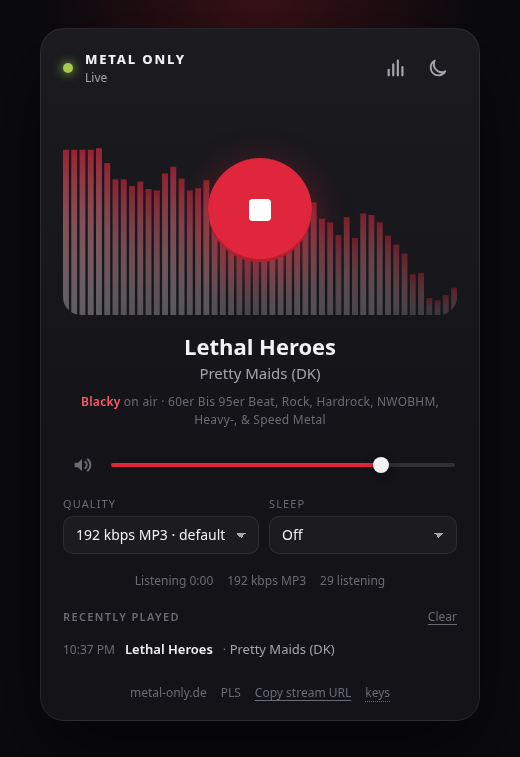
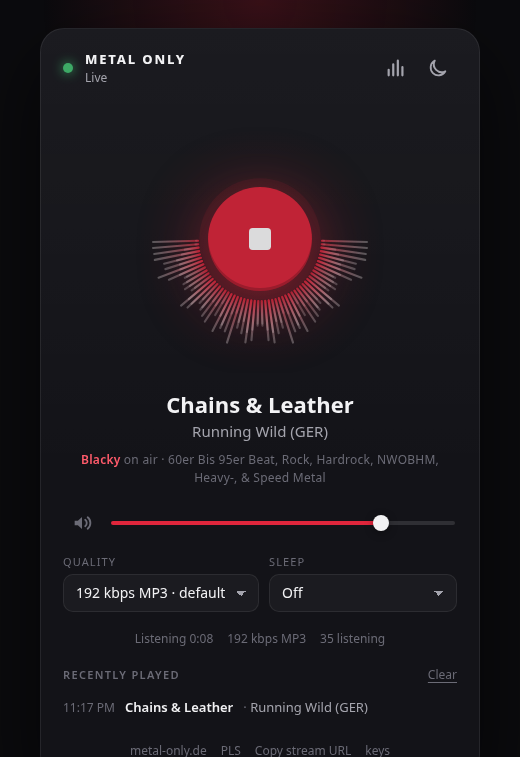
Visualizer: ring around the play button with log bands and bass glow
Bands are log-spaced and their power is summed in the dB domain, so
treble is no longer starved. Bars rise instantly and decay slowly.
Low-band energy drives a CSS variable that makes the button and page
glow breathe with the music. Range calibrated on the live stream.

diff --git a/public/app.js b/public/app.js
@@ -47,6 +47,7 @@
     else document.documentElement.setAttribute('data-theme', theme);
     el.themeToggle.title = `Theme: ${theme} (t)`;
     store.set('theme', theme);
+    document.dispatchEvent(new Event('themechange'));
   }
   function cycleTheme() {
     const cur = store.get('theme', 'dark');
@@ -75,8 +76,10 @@
       audioCtx = new Ctx();
       const src = audioCtx.createMediaElementSource(audio);
       analyser = audioCtx.createAnalyser();
-      analyser.fftSize = 256;
-      analyser.smoothingTimeConstant = 0.82;
+      analyser.fftSize = 4096;
+      analyser.smoothingTimeConstant = 0.5;
+      analyser.minDecibels = -100;
+      analyser.maxDecibels = 0;
       src.connect(analyser);
       analyser.connect(audioCtx.destination);
     } catch (err) {
@@ -370,8 +373,30 @@
   setInterval(tick, 1000);
 
   // ---------- Visualizer ----------
+  // A ring of bars around the play button, mirrored left and right.
+  // Bands are spaced logarithmically (equal width per octave) and averaged,
+  // so bass and treble get equal room. Levels rise instantly and fall slowly.
   const ctx2d = el.viz.getContext('2d');
   let vizFrame = null;
+  const BANDS = 56;             // bars per half; the ring shows twice this
+  const F_LO = 45, F_HI = 14500; // Hz; MP3 has nothing useful above 16 kHz
+  const RELEASE = 0.86;         // per-frame decay of a bar once the signal drops
+  const DB_LO = -62, DB_HI = -26; // band power range mapped to bar length 0..1 (measured on the live stream)
+  const TILT_DB = 8;             // gentle lift toward the top band so treble is not always the runt
+  let levels = new Float32Array(BANDS);
+  const bandDb = new Float32Array(BANDS);
+  // ?debug=1 exposes the band readings so they can be inspected from the console.
+  if (new URLSearchParams(location.search).has('debug')) window.__viz = { levels, bandDb };
+  let bandEdges = null;
+  let colors = { c1: '', c2: '' };
+
+  function readColors() {
+    const css = getComputedStyle(document.documentElement);
+    colors = { c1: css.getPropertyValue('--viz').trim(), c2: css.getPropertyValue('--viz-2').trim() };
+  }
+  readColors();
+  document.addEventListener('themechange', readColors);
+
   function resizeCanvas() {
     const dpr = window.devicePixelRatio || 1;
     const r = el.viz.getBoundingClientRect();
@@ -381,41 +406,92 @@
   window.addEventListener('resize', resizeCanvas);
   resizeCanvas();
 
+  function computeBandEdges() {
+    const nyquist = audioCtx.sampleRate / 2;
+    const bins = analyser.frequencyBinCount;
+    const edges = new Array(BANDS + 1);
+    for (let i = 0; i <= BANDS; i++) {
+      const hz = F_LO * (F_HI / F_LO) ** (i / BANDS);
+      edges[i] = Math.min(bins - 1, Math.round((hz / nyquist) * bins));
+    }
+    return edges;
+  }
+
+  function setBass(v) {
+    document.documentElement.style.setProperty('--bass', v.toFixed(3));
+  }
+
   function drawViz() {
     cancelAnimationFrame(vizFrame);
     if (!analyser || !vizOn) { clearViz(); return; }
-    const data = new Uint8Array(analyser.frequencyBinCount);
-    const css = () => getComputedStyle(document.documentElement);
+    if (!bandEdges) bandEdges = computeBandEdges();
+    const data = new Float32Array(analyser.frequencyBinCount);
     const frame = () => {
       if (!state.wanted || !vizOn) { clearViz(); return; }
       vizFrame = requestAnimationFrame(frame);
-      analyser.getByteFrequencyData(data);
-      const W = el.viz.width, H = el.viz.height;
-      ctx2d.clearRect(0, 0, W, H);
-      const bars = 48;
-      const gap = W * 0.006;
-      const bw = (W - gap * (bars - 1)) / bars;
-      const c1 = css().getPropertyValue('--viz').trim();
-      const c2 = css().getPropertyValue('--viz-2').trim();
-      // Use the lower two thirds of the spectrum; the top is mostly empty for music.
-      const usable = Math.floor(data.length * 0.66);
-      for (let i = 0; i < bars; i++) {
-        const idx = Math.floor((i / bars) ** 1.6 * usable);
-        const v = data[idx] / 255;
-        const h = Math.max(2, v * H * 0.9);
-        const x = i * (bw + gap);
-        const grad = ctx2d.createLinearGradient(0, H - h, 0, H);
-        grad.addColorStop(0, c1);
-        grad.addColorStop(1, c2);
-        ctx2d.fillStyle = grad;
-        ctx2d.globalAlpha = 0.35 + v * 0.6;
-        ctx2d.fillRect(x, H - h, bw, h);
+      analyser.getFloatFrequencyData(data); // dB per bin
+
+      // Sum the power of the bins in each band (wide treble bands add up, so
+      // they are not starved), turn it back into dB, then apply attack/release.
+      for (let i = 0; i < BANDS; i++) {
+        const from = bandEdges[i];
+        const to = Math.max(from + 1, bandEdges[i + 1]);
+        let power = 0;
+        for (let b = from; b < to; b++) power += 10 ** (data[b] / 10);
+        const db = 10 * Math.log10(power + 1e-12) + (i / BANDS) * TILT_DB;
+        bandDb[i] = db;
+        const v = Math.min(1, Math.max(0, (db - DB_LO) / (DB_HI - DB_LO))) ** 1.3;
+        levels[i] = v > levels[i] ? v : levels[i] * RELEASE;
       }
+
+      const W = el.viz.width, H = el.viz.height;
+      const dpr = window.devicePixelRatio || 1;
+      ctx2d.clearRect(0, 0, W, H);
+      const cx = W / 2, cy = H / 2;
+      const inner = 62 * dpr;                      // just outside the 104px button
+      const maxLen = Math.min(cx, cy) - inner - 4 * dpr;
+      const step = Math.PI / BANDS;                // angle between bars on one side
+      const bw = Math.max(1.5 * dpr, inner * step * 0.62);
+
+      ctx2d.save();
+      ctx2d.translate(cx, cy);
+      ctx2d.lineCap = 'round';
+      ctx2d.lineWidth = bw;
+      for (let i = 0; i < BANDS; i++) {
+        const v = levels[i];
+        const len = Math.max(2 * dpr, v * maxLen);
+        // Bass at the bottom (6 o'clock), treble at the top, mirrored on both sides.
+        const a = Math.PI / 2 - (i + 0.5) * step;
+        const grad = ctx2d.createLinearGradient(0, inner, 0, inner + len);
+        grad.addColorStop(0, colors.c1);
+        grad.addColorStop(1, colors.c2);
+        ctx2d.strokeStyle = grad;
+        ctx2d.globalAlpha = 0.4 + v * 0.6;
+        for (const side of [1, -1]) {
+          ctx2d.save();
+          ctx2d.rotate(side * a);
+          ctx2d.beginPath();
+          ctx2d.moveTo(0, inner);
+          ctx2d.lineTo(0, inner + len);
+          ctx2d.stroke();
+          ctx2d.restore();
+        }
+      }
+      ctx2d.restore();
       ctx2d.globalAlpha = 1;
+
+      // Bass energy drives the glow around the button and the page.
+      let bass = 0;
+      for (let i = 0; i < 6; i++) bass += levels[i];
+      setBass(bass / 6);
     };
     frame();
   }
-  function clearViz() { ctx2d.clearRect(0, 0, el.viz.width, el.viz.height); }
+  function clearViz() {
+    ctx2d.clearRect(0, 0, el.viz.width, el.viz.height);
+    levels.fill(0);
+    setBass(0);
+  }
 
   el.vizToggle.addEventListener('click', () => {
     vizOn = !vizOn;

diff --git a/public/style.css b/public/style.css
@@ -82,6 +82,7 @@ body {
 .glow {
   position: fixed; inset: 0; pointer-events: none;
   background: var(--glow);
+  opacity: calc(0.85 + var(--bass, 0) * 0.9);
   z-index: 0;
 }
 a { color: inherit; }
@@ -137,7 +138,7 @@ svg { width: 22px; height: 22px; display: block; }
 
 /* Stage: visualizer plus the big play button. */
 .stage {
-  position: relative; height: 210px;
+  position: relative; height: 268px;
   display: grid; place-items: center;
   border-radius: 18px; overflow: hidden;
 }
@@ -149,8 +150,12 @@ svg { width: 22px; height: 22px; display: block; }
   background: var(--accent);
   color: #fff;
   display: grid; place-items: center;
-  box-shadow: 0 12px 40px rgba(224, 38, 60, 0.45), inset 0 -3px 0 rgba(0, 0, 0, 0.2);
-  transition: transform 0.15s, background 0.2s, box-shadow 0.2s;
+  /* --bass is set by the visualizer (0..1) and makes the glow breathe with the music. */
+  box-shadow:
+    0 12px calc(40px + var(--bass, 0) * 50px) rgba(224, 38, 60, calc(0.45 + var(--bass, 0) * 0.45)),
+    0 0 0 calc(var(--bass, 0) * 14px) rgba(224, 38, 60, 0.12),
+    inset 0 -3px 0 rgba(0, 0, 0, 0.2);
+  transition: transform 0.15s, background 0.2s;
 }
 .play:hover { transform: scale(1.04); background: var(--accent-2); }
 /* While playing the button steps aside for the visualizer and only shows on hover or focus. */

diff --git a/README.md b/README.md
@@ -55,7 +55,7 @@ URLs and metadata.
 - Volume with a perceptual curve, mute, both remembered.
 - Quality picker: 320 kbps AAC, 192 kbps MP3, 64 kbps AAC.
 - Now playing with DJ and show, plus a history of recent tracks.
-- Spectrum visualizer (toggle with `v`).
+- Spectrum ring around the play button: log-spaced bands, fast attack and slow release, bass-driven glow (toggle with `v`).
 - Sleep timer with a slow fade-out.
 - Auto-reconnect with backoff, and a switch to the backup servers if one host dies.
 - OS media keys and lock-screen info through the Media Session API.
